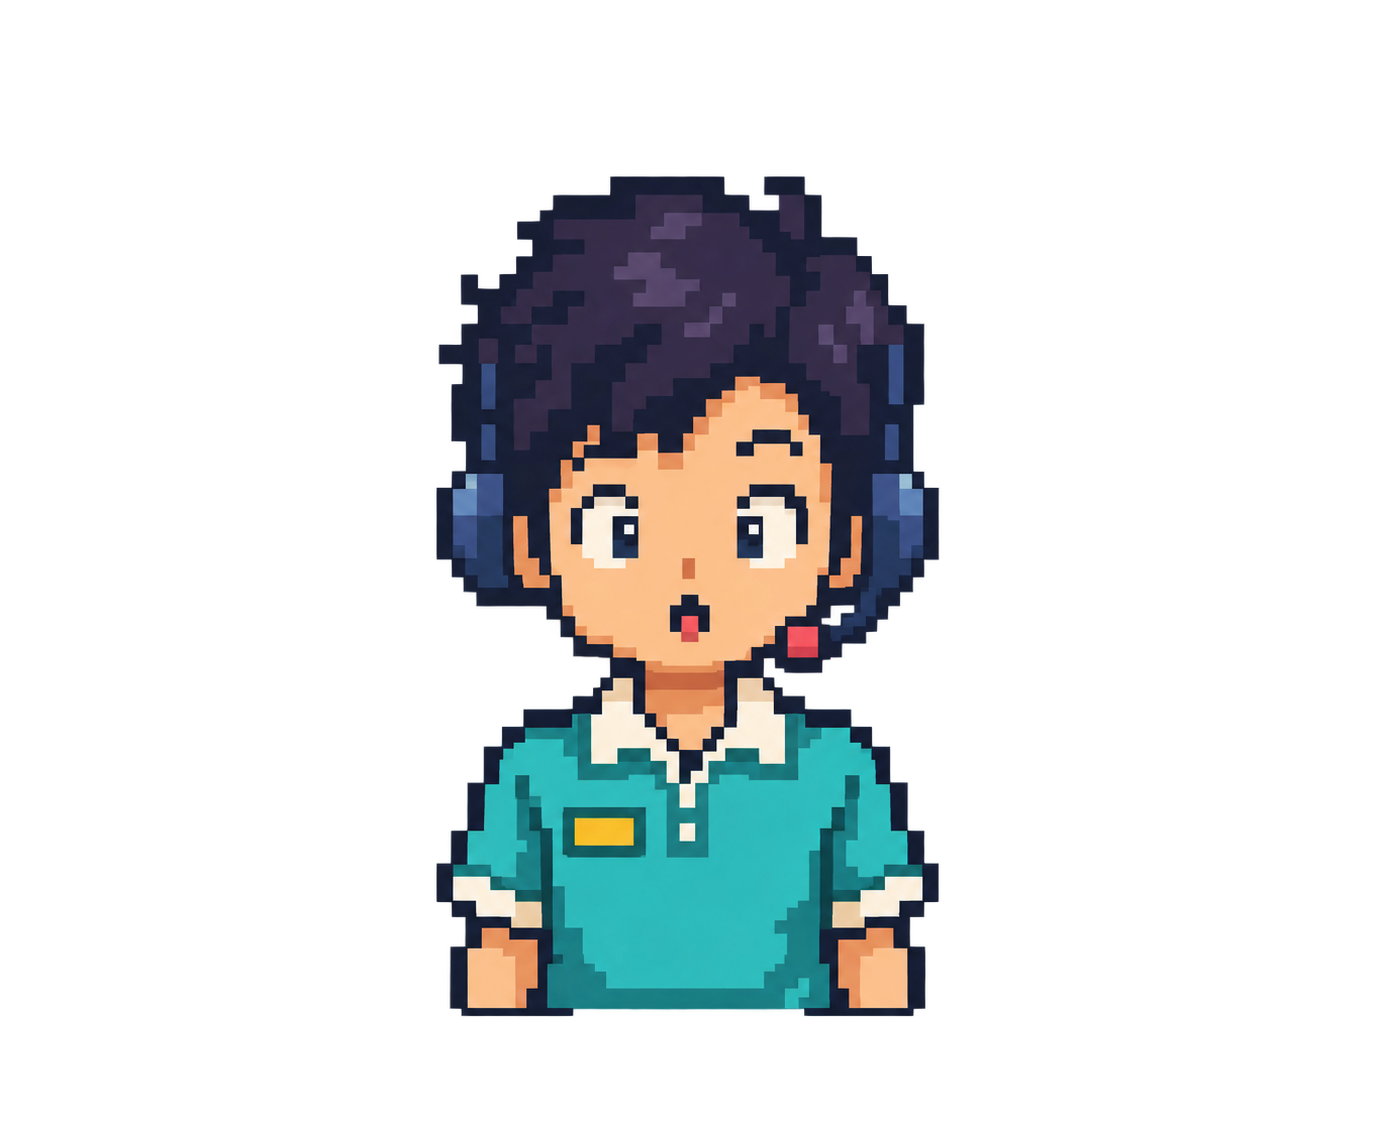
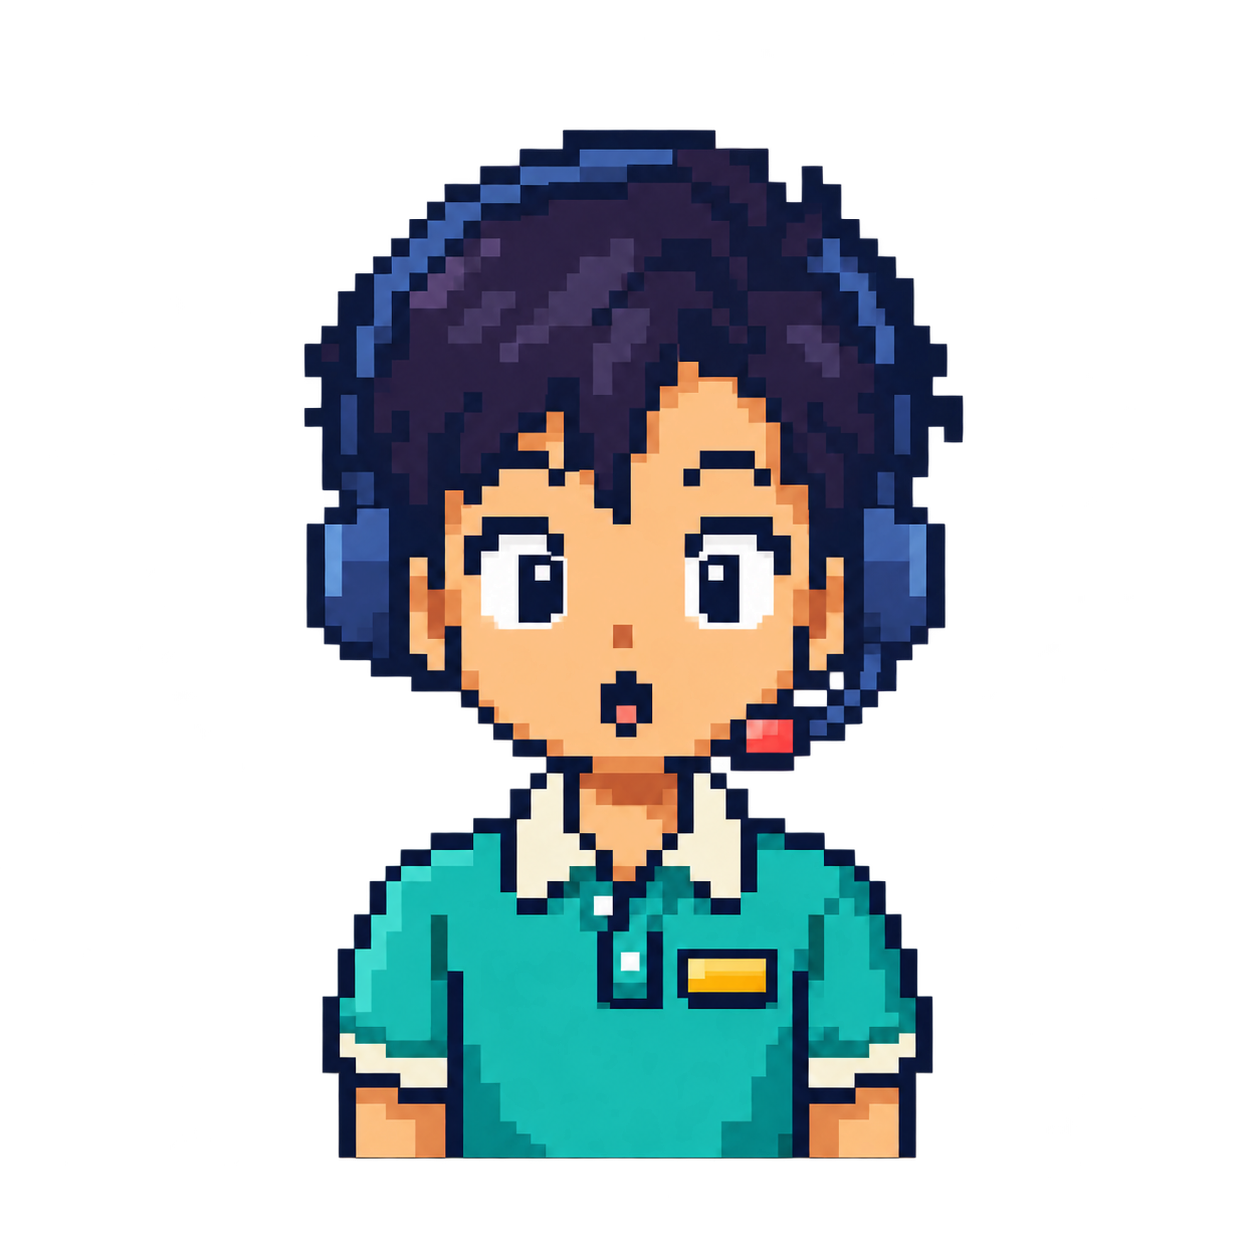
Technician thinking/surprised expressions; lock unchanging pixels across frames
- New tech-thinking / tech-surprised from ChatGPT (edited from the neutral image), pixelized with
  the other two as one 40x63 set; all four expressions now show in the game
- pixelize: --same-rows / --same-cols copy hair, headset and body from the neutral frame into the
  others, so only the face changes and nothing shimmers when expressions switch
- Style guide: the technician command and what the row/column numbers mean

Changed region(s): [[0.2177, 0.0917, 0.7775, 0.9476]]

diff --git a/tools/pixelize.ts b/tools/pixelize.ts
@@ -1,4 +1,8 @@
-// npm run pixelize -- <files or folders> [--height 39] [--out src/assets/sprites] [--no-preview]
+// npm run pixelize -- <files or folders> [--height 39] [--same-rows 0-16,40-] [--same-cols 0-5,33-]
+//                     [--out src/assets/sprites] [--no-preview]
+//   --same-rows / --same-cols: in a frame set, copy these art rows / columns from the *-neutral frame
+//                into the others (expressions only change the face; this removes AI noise elsewhere)
+//   Technician: npm run pixelize -- "art-source/tech-*.png" --same-rows 0-16,40- --same-cols 0-5,33-
 // npm run pixelize -- art-source/icons-sheet.png --grid 4x2 --names ram,ssd,usb,... [--prefix icon-]
 // npm run pixelize -- --export-palette
 //
@@ -37,6 +41,14 @@ const heightArg = flag('--height');
 const gridArg = flag('--grid');
 const namesArg = flag('--names');
 const prefixArg = flag('--prefix') ?? 'icon-';
+/** '0-16,40-' -> [[0,16],[40,Infinity]] */
+const ranges = (spec: string | undefined) =>
+  spec?.split(',').map((part) => {
+    const [a, b] = part.split('-');
+    return [Number(a), b === undefined ? Number(a) : b === '' ? Infinity : Number(b)] as const;
+  });
+const sameRows = ranges(flag('--same-rows'));
+const sameCols = ranges(flag('--same-cols'));
 const outDir = flag('--out') ?? 'src/assets/sprites';
 const preview = !has('--no-preview');
 const previewDir = 'art-source/preview';
@@ -134,8 +146,29 @@ for (const [group, files] of groups) {
   const targetH = heightArg ? Number(heightArg) : suggested;
   console.log(`${group}: ${files.length} file(s), subject ${box.w}x${box.h}px, looks like ~${cell}px per art pixel -> ${suggested} art px tall${heightArg ? ` (using --height ${targetH})` : ''}`);
 
+  const results = files.map((_, i) => pixelize(imgs[i]!, masks[i]!, box, targetH));
+  if ((sameRows || sameCols) && files.length > 1) {
+    // Hair, headset and body should be identical in every frame; AI noise there would shimmer when
+    // frames switch, so those pixels come from the neutral frame.
+    const baseIdx = Math.max(0, files.findIndex((f) => stem(f).endsWith('-neutral')));
+    const base = results[baseIdx]!;
+    const inRanges = (v: number, ranges: readonly (readonly [number, number])[] | undefined) => !!ranges?.some(([a, b]) => v >= a && v <= b);
+    for (const [i, r] of results.entries()) {
+      if (i === baseIdx) continue;
+      for (let y = 0; y < base.height; y++) {
+        for (let x = 0; x < base.width; x++) {
+          if (!inRanges(y, sameRows) && !inRanges(x, sameCols)) continue;
+          const o = (y * base.width + x) * 4;
+          r.data.set(base.data.subarray(o, o + 4), o);
+        }
+      }
+    }
+    const fmt = (rs: readonly (readonly [number, number])[]) => rs.map(([a, b]) => (b === Infinity ? `${a}+` : a === b ? `${a}` : `${a}-${b}`)).join(', ');
+    console.log(`  ${[sameRows && `rows ${fmt(sameRows)}`, sameCols && `columns ${fmt(sameCols)}`].filter(Boolean).join(' and ')} copied from ${stem(files[baseIdx]!)} into the other frames`);
+  }
+
   for (const [i, file] of files.entries()) {
-    const r = pixelize(imgs[i]!, masks[i]!, box, targetH);
+    const r = results[i]!;
     const name = `${stem(file)}.png`;
     await save(r, name);
     const warn = r.uncertain > 0.15 ? `  <- ${Math.round(r.uncertain * 100)}% of pixels were a close call; try another --height` : '';

diff --git a/docs/style-guide.md b/docs/style-guide.md
@@ -89,8 +89,13 @@
 5. ได้ PNG ขนาดจริงใน `src/assets/sprites/` และภาพขยาย 8 เท่าไว้ตรวจใน `art-source/preview/`
 
 ```
-npm run pixelize -- art-source/tech-neutral.png art-source/tech-happy.png art-source/tech-thinking.png art-source/tech-surprised.png
+npm run pixelize -- "art-source/tech-*.png" --same-rows 0-16,40- --same-cols 0-5,33-
 ```
+
+- `--same-rows` / `--same-cols` คัดลอกแถว/คอลัมน์ที่กำหนดจากภาพ neutral ไปใส่ภาพสีหน้าอื่น
+  ใช้กับส่วนที่ไม่ควรเปลี่ยน (ผม หูฟัง ตัว) เพราะ ChatGPT มักวาดส่วนนั้นต่างกันเล็กน้อยทุกภาพ ทำให้เวลาสลับสีหน้าแล้วเสื้อหรือผมกระพริบ
+  ตัวเลขข้างบนใช้กับช่างขนาด 40×63 (หน้าอยู่แถว 17–39 คอลัมน์ 6–32) ตัวละครอื่นต้องหาตำแหน่งหน้าใหม่
+- ไอคอนแผ่นรวม: `npm run pixelize -- art-source/icons-sheet.png --grid 4x2 --names ram,ssd,usb,screwdriver,cpu,motherboard,tpm,magnifier`
 
 ถ้าสคริปต์เตือนว่า "close call" มาก แปลว่าความสูงที่เดาไม่ตรง ให้ใส่เองด้วย `--height 40`
 
